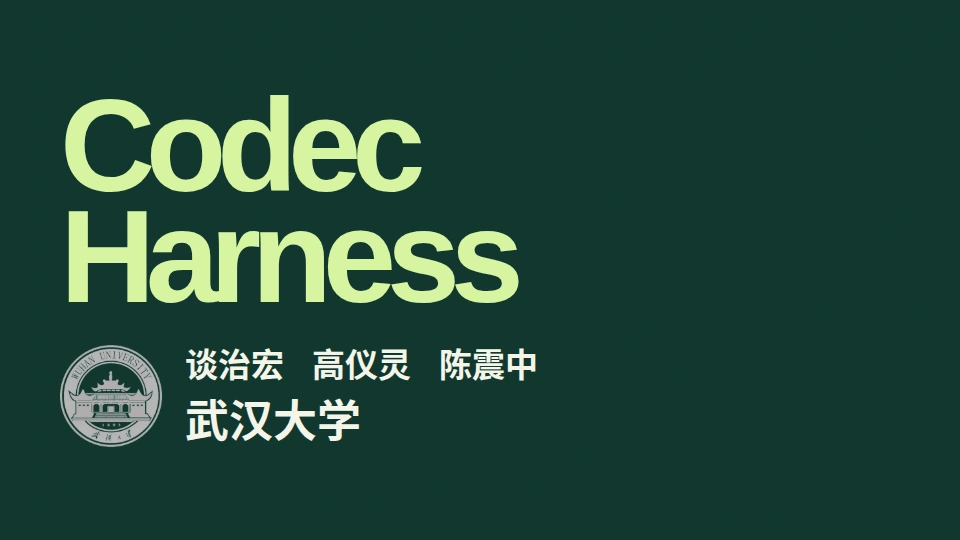
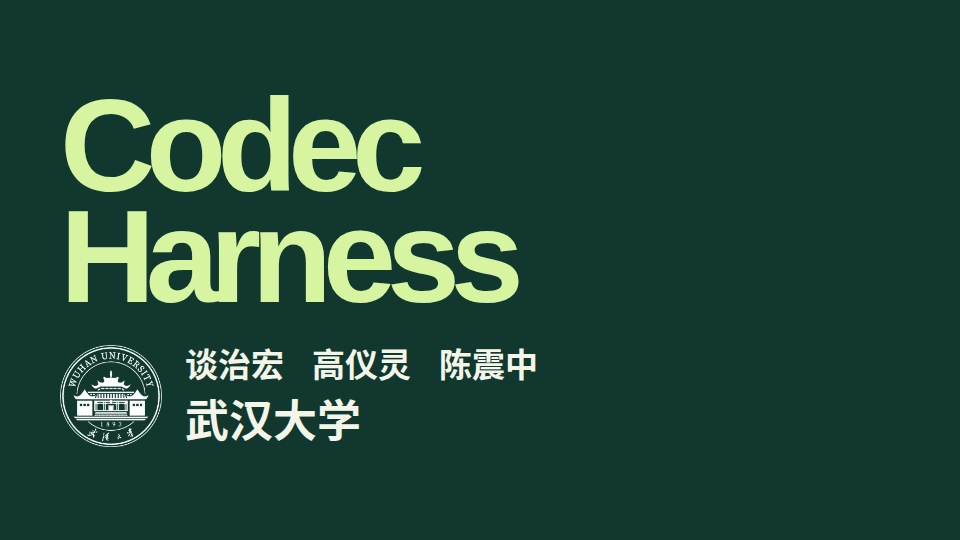
Use the supplied white university emblem

Changed region(s): [[0.0625, 0.6222, 0.1875, 0.8296]]

diff --git a/index.html b/index.html
@@ -44,7 +44,7 @@
   <section id="projects">
     <h2 data-en="Projects">项目</h2>
     <article class="project-card">
-      <a class="figure" href="https://tzhsw.github.io/codec-harness/"><img src="assets/codec-harness-thumbnail.webp?v=signature" width="960" height="540" alt="Codec Harness"></a>
+      <a class="figure" href="https://tzhsw.github.io/codec-harness/"><img src="assets/codec-harness-thumbnail.webp?v=white-seal" width="960" height="540" alt="Codec Harness"></a>
       <div>
         <h3 data-en="CodecHarness · Video encoder autotuning">CodecHarness · 视频编码参数自动调优</h3>
         <p data-en="For a given video, which encoder settings can meet a target quality at the lowest bitrate? The answer depends on motion and texture, and testing every parameter combination takes time. CodecHarness uses an agent to encode the clip with different settings and choose the next trial based on the measured bitrate and quality. It saves the results so that a similar video can start from a configuration worth testing.">给定一段视频，怎样在达到目标画质的前提下尽量降低码率？合适的编码参数取决于画面中的运动和纹理，靠遍历逐组试验很费时。CodecHarness 让 Agent 用不同参数实际编码，根据每次测得的码率和画质决定下一组参数。试验结果也会保存下来，为内容相似的视频提供调参起点。</p>
